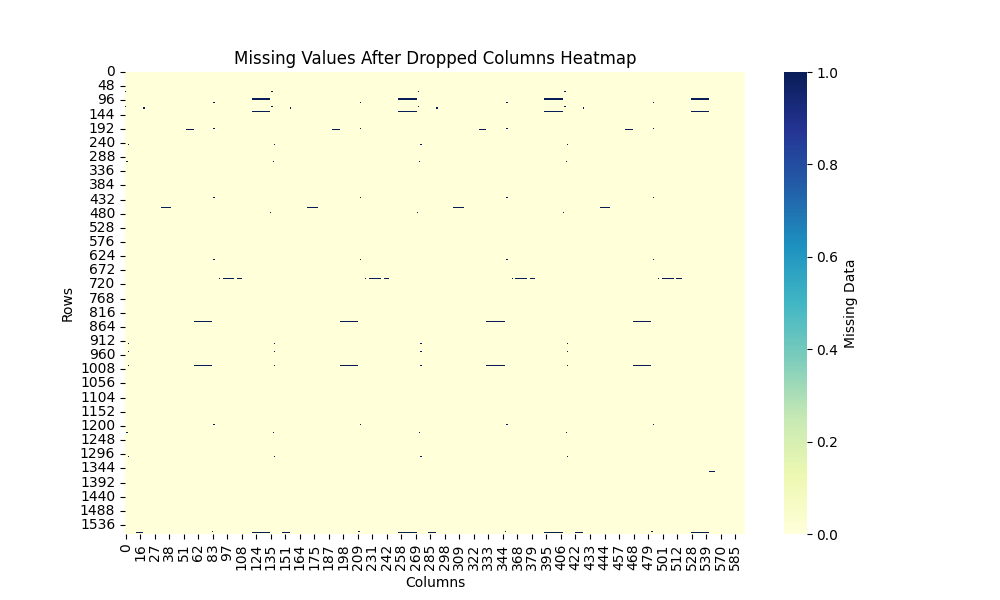
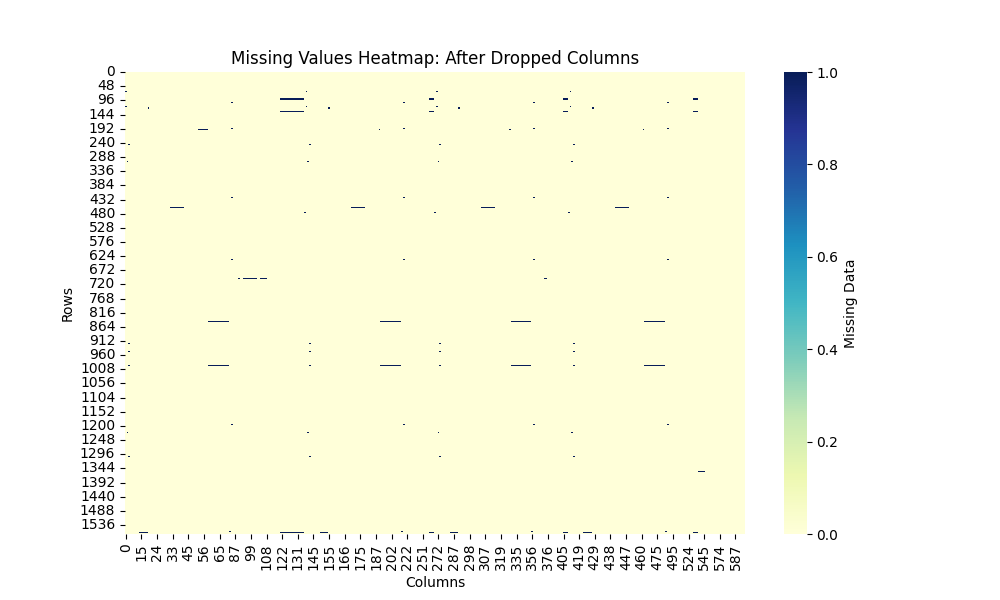
completed data cleaning and eda plots

Changed region(s): [[0.124, 0.9, 0.744, 0.96], [0.217, 0.09, 0.651, 0.12]]

diff --git a/EDA/eda_plots.py b/EDA/eda_plots.py
@@ -1,5 +1,9 @@
 import pandas as pd
+import numpy as np
 import plotly.express as px
+import seaborn as sns
+import matplotlib.pyplot as plt
+from feature_engine.selection import SmartCorrelatedSelection
 
 class Exploratory_Data_Analysis:
     def label_count(self, df, plot_location):
@@ -13,11 +17,67 @@ class Exploratory_Data_Analysis:
                                    title='Label Count',
                                    color='Label')
         label_count_barplot.update_layout(title_x=0.5)
-        
         label_count_barplot.write_image(f"{plot_location}/label_counts.png")
 
-    def labels_by_dow(self, df, plot_location):
-        return None
+
+    def labels_over_time(self, df, plot_location):
+        df['Label']=df['Label'].astype(str)
+        labels_over_time=px.scatter(df, 
+                                    x='Time', 
+                                    y='Label', 
+                                    title='Labels Over Time',
+                                    color='Label')
+        labels_over_time.update_layout(title_x=0.5)
+        labels_over_time.write_image(f"{plot_location}/labels_over_time.png")
+
 
     def correlation_plot(self, df, plot_location):
-        return None
+        df_corr=df[df.columns[~df.columns.isin(['Label', 'Time', 'day_of_week'])]].corr()
+
+        mask=np.triu(np.ones_like(df_corr, dtype=bool))
+
+        f, ax=plt.subplots(figsize=(20, 20))
+        sns.heatmap(df_corr, mask=mask, cmap='YlGnBu')
+        plt.title('Correlation Heatmap: All Data', fontsize = 20)
+        plt.savefig(f"{plot_location}/correlation_heatmap_all_data.png")
+
+
+    def remove_highly_correlated_features(self, df, correlation_threshold):
+        print(f'Before removing features with over an {correlation_threshold*100}% correlation the data had a shape of {df.shape}')
+
+        corr_vars_list=[ele for ele in df.columns.tolist() if ele not in ['Label', 'Time', 'day_of_week']]
+
+        df=SmartCorrelatedSelection(threshold=correlation_threshold,
+                                    variables=corr_vars_list, 
+                                    selection_method='missing_values').\
+                                        fit_transform(df)
+        
+        print(f'After removing features with over an {correlation_threshold*100}% correlation the data has a shape of {df.shape}')
+        
+        return df
+    
+
+    def correlation_plot_after_removing_high_corr(self, df, plot_location):
+        df_corr=df[df.columns[~df.columns.isin(['Label', 'Time', 'day_of_week'])]].corr()
+
+        mask=np.triu(np.ones_like(df_corr, dtype=bool))
+
+        f, ax=plt.subplots(figsize=(20, 20))
+        sns.heatmap(df_corr, mask=mask, cmap='YlGnBu')
+        plt.title('Correlation Heatmap: After Removing Highly Correlated Variables', fontsize = 20)
+        plt.savefig(f"{plot_location}/correlation_heatmap_after_removing_high_corr_vars.png")
+
+
+    def label_counts_by_dow(self, df, plot_location):
+        labels_by_dow=df.groupby(['day_of_week', 'Label'])['Time'].count().reset_index(drop=False)
+        labels_by_dow=labels_by_dow.rename(columns={'Time': 'Count'})
+        labels_by_dow['Percentage']=(labels_by_dow['Count']/labels_by_dow['Count'].sum()) * 100
+
+        dow_labels_barplot=px.bar(labels_by_dow, 
+                                  x="day_of_week",
+                                  y="Percentage", 
+                                  color="Label", 
+                                  title='Percentage of Label Occurence by Day of Week',
+                                  barmode='group')
+        dow_labels_barplot.update_layout(title_x=0.5)
+        dow_labels_barplot.write_image(f"{plot_location}/label_barplot_by_dow.png")

diff --git a/Clean_Data/data_cleaning.py b/Clean_Data/data_cleaning.py
@@ -7,7 +7,7 @@ class Clean_Data:
         plt.figure(figsize=(10,6))
         sns.heatmap(df.isna(),
                     cmap="YlGnBu",
-                    cbar_kws={'label': 'Missing Data'}).set(title='Missing Values Heatmap',
+                    cbar_kws={'label': 'Missing Data'}).set(title='Missing Values Heatmap: All Data',
                                                             xlabel='Columns', 
                                                             ylabel='Rows')
         plt.savefig(f"{plot_location}/all_missing_values.png", dpi=100)
@@ -53,11 +53,26 @@ class Clean_Data:
         return df
     
 
+    def remove_columns_with_n_unique_vals(self, df, unique_value_threshold):
+        unique_vals=df.nunique().reset_index(drop=False).\
+            rename(columns={'index': 'Column', 0:'Number of Unique Values'}).\
+                sort_values(by='Number of Unique Values', ascending=True)
+        unique_vals=unique_vals[unique_vals['Number of Unique Values']<=unique_value_threshold]
+        remove_cols=unique_vals['Column'].values.tolist()
+        remove_cols.remove('Label')
+
+        df=df.drop(columns=remove_cols)
+
+        print(f'Ater removing columns with only {unique_value_threshold} unique values or less, the shape of the data is {df.shape}')
+
+        return df
+
+
     def all_missing_values_after_dropped_cols_visualizations(self, df, plot_location):
         plt.figure(figsize=(10,6))
         sns.heatmap(df.isna(),
                     cmap="YlGnBu",
-                    cbar_kws={'label': 'Missing Data'}).set(title='Missing Values After Dropped Columns Heatmap',
+                    cbar_kws={'label': 'Missing Data'}).set(title='Missing Values Heatmap: After Dropped Columns',
                                                             xlabel='Columns', 
                                                             ylabel='Rows')
         plt.savefig(f"{plot_location}/missing_values_after_dropped_cols.png", dpi=100)

diff --git a/Configuration_Variables/read_config.py b/Configuration_Variables/read_config.py
@@ -12,3 +12,9 @@ eda_visualizatiion_graph_output=input_vars['EDA_Visualizatiion_Graph_Output']
 
 # Missing Values Threshold
 missing_value_threshold=input_vars['Missing_Value_Threshold']
+
+# Unique Value Threshold
+unique_value_threshold=input_vars['Unique_Value_Threshold']
+
+# Correlation Drop Threshold
+correlation_drop_threshold=input_vars['Correlation_Drop_Threshold']
